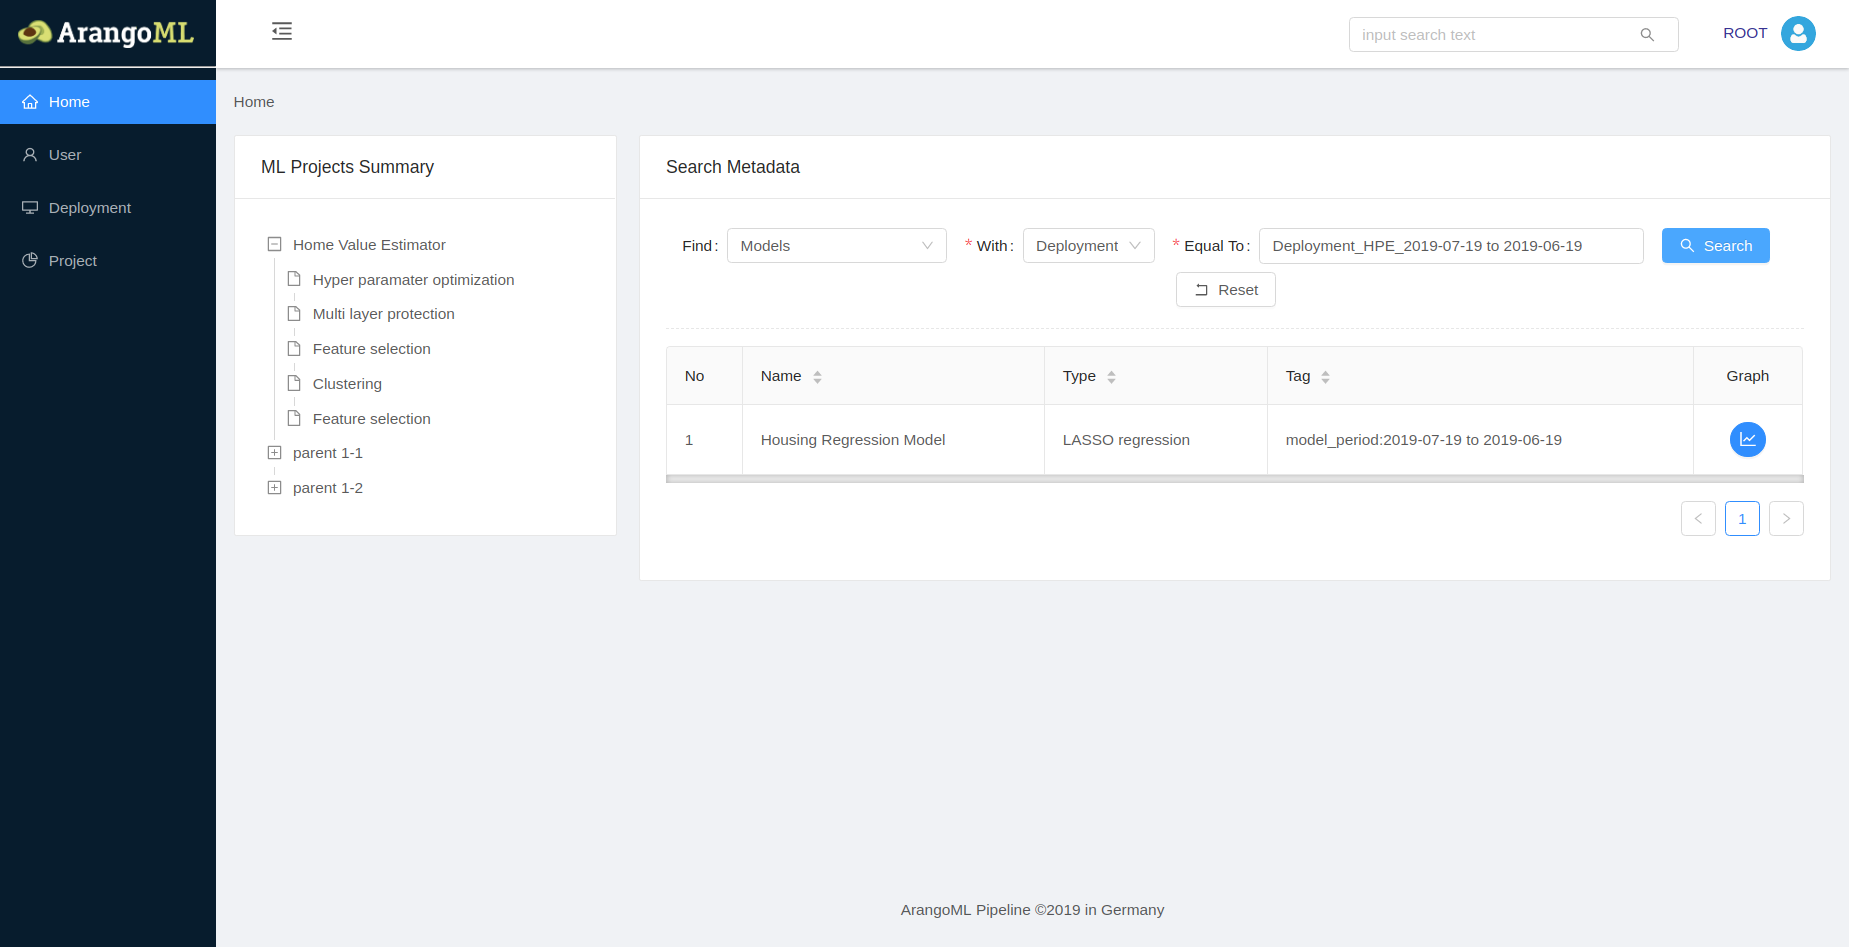
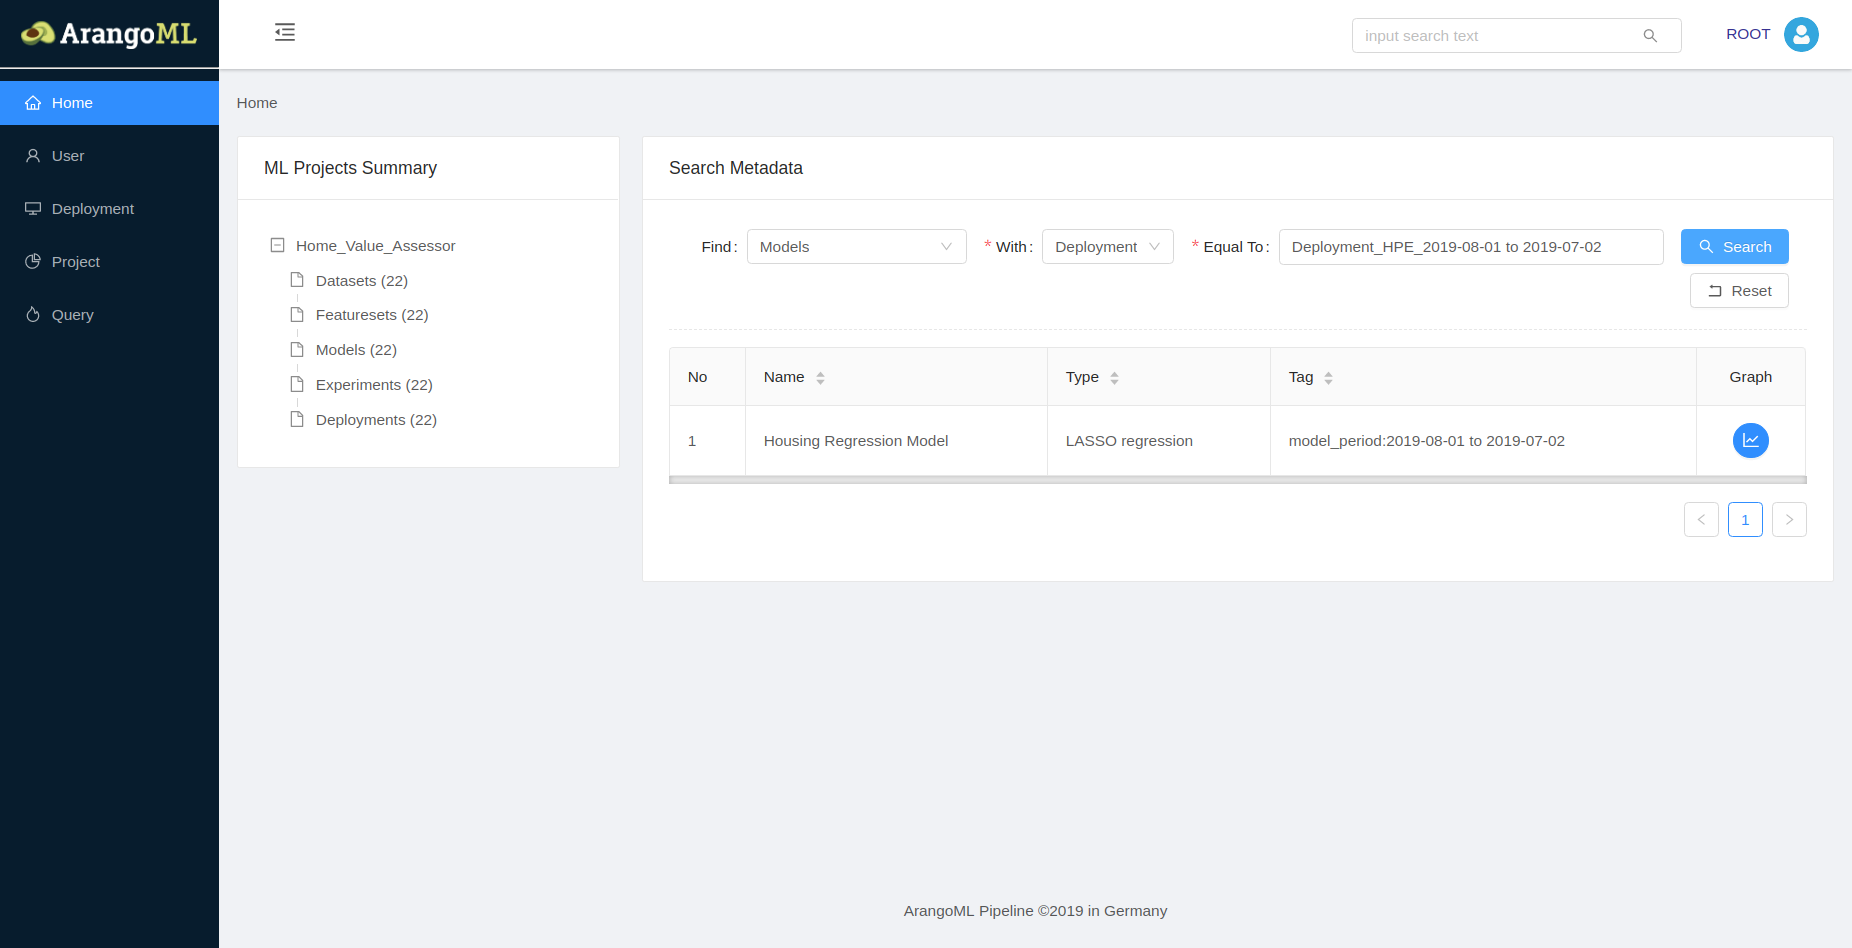
Updates for 0.2 Release

diff --git a/arangopipe/arangopipe_frontend/app/src/containers/Query/Query.jsx b/arangopipe/arangopipe_frontend/app/src/containers/Query/Query.jsx
@@ -234,6 +234,14 @@ class Query extends React.Component {
           </div>
         </Menu.Item>)
 
+    const NewAlert = () => <Alert
+          description={this.props.error}
+          type="error"
+          showIcon
+          closable
+          style={{marginTop: 20}}
+        />
+
     return(
       <div>
           <Card title="Running Query" bordered={true}>
@@ -295,13 +303,7 @@ class Query extends React.Component {
               <Button icon="play-circle" type="primary" onClick={this.executeQuery}>Execute</Button> 
             </div>   
           </Card>
-        {this.props.error && <Alert
-          description={this.props.error}
-          type="error"
-          showIcon
-          closable
-          style={{marginTop: 20}}
-        />}
+        {this.props.error && <NewAlert/>}
         {this.props.explain && <Card title={
             <div>
               <Tag color='geekblue'>Query Explain</Tag>

diff --git a/arangopipe/arangopipe_frontend/app/src/actions/query/index.js b/arangopipe/arangopipe_frontend/app/src/actions/query/index.js
@@ -67,7 +67,7 @@ export const executeQuery = (query) => {
           return dispatch({ type: QUERY.QUERY_RESULT, payload: res.data })
         }
       }).catch(err => {
-        if(err.data.error)
+        if(err)
           return dispatch({ type: QUERY.ERROR, payload: err.data.errorMessage })
       })
   }
@@ -90,7 +90,8 @@ export const explainQuery = (query) => {
           return dispatch({ type: QUERY.QUERY_EXPLAIN, payload: res.data.msg })
         }
       }).catch(err => {
-        return dispatch({ type: QUERY.ERROR, payload: err.data.errorMessage })
+        if(err)
+          return dispatch({ type: QUERY.ERROR, payload: err.data.errorMessage })
       })
   }
 }

diff --git a/arangopipe/arangopipe_frontend/app/src/components/Sidebar.jsx b/arangopipe/arangopipe_frontend/app/src/components/Sidebar.jsx
@@ -17,7 +17,7 @@ class Sidebar extends React.Component{
     return (
         <Sider collapsed={this.props.collapsed}>
             <div className='logo' style={{height: 55}}>
-              <Link to="/" style={{color: 'white'}}>
+              <Link to="" style={{color: 'white'}} onClick={() => {window.location = '/'}}>
                 <img alt="logo" 
                   src={this.props.collapsed?smallLogoPath:logoPath} 
                   style={{width: this.props.collapsed?40:160}}/>

diff --git a/arangopipe/arangopipe_frontend/app/src/actions/AUTHAPI.js b/arangopipe/arangopipe_frontend/app/src/actions/AUTHAPI.js
@@ -29,10 +29,10 @@ AUTHAPI.interceptors.response.use(
     else Promise.reject(response)
   },
   error => {
-    // if(error.response === undefined || error.response.statusText === 'Unauthorized'){
-    //   window.location = '/login'
-    //   return false
-    // }
+    if(error.response === undefined || error.response.statusText === 'Unauthorized'){
+      window.location = '/login'
+      return false
+    }
 
     return Promise.reject(error.response)
   },

diff --git a/arangopipe/arangopipe_frontend/app/src/components/Modal/TreeGraph.jsx b/arangopipe/arangopipe_frontend/app/src/components/Modal/TreeGraph.jsx
@@ -18,6 +18,8 @@ class TreeGraphForm extends React.Component {
     visible: 'hidden'
   }
 
+
+  //Drawing Graph
   drawGraph(engine, format, graph) {
     window.URL = window.URL || window.webkitURL;
 

diff --git a/arangopipe/tests/mlflow/example_secenario_1.py b/arangopipe/tests/mlflow/example_secenario_1.py
@@ -34,8 +34,7 @@ if __name__ == "__main__":
 
     proj_info = {"name": "Wine-Quality-Regression-Modelling"}
     conn_config = ArangoPipeConfig()
-    conn_config.set_dbconnection(hostname = "localhost", port = 8529,\
-                                root_user = "root", root_user_password = "open sesame")
+    conn_config.set_dbconnection(hostname = "http://localhost:8529", root_user = "root", root_user_password = "open sesame")
     admin = ArangoPipeAdmin(config = conn_config)
     proj_reg = admin.register_project(proj_info)
 

diff --git a/arangopipe/tests/mlflow/example_scenario_2.py b/arangopipe/tests/mlflow/example_scenario_2.py
@@ -32,7 +32,7 @@ if __name__ == "__main__":
     warnings.filterwarnings("ignore")
     np.random.seed(40)
     conn_config = ArangoPipeConfig()
-    conn_config.set_dbconnection(hostname = "localhost", port = 8529,\
+    conn_config.set_dbconnection(hostname = "http://localhost:8529",\
                                 root_user = "root", root_user_password = "open sesame")
     ap = ArangoPipe(config = conn_config)
     # Read the wine-quality csv file (make sure you're running this from the root of MLflow!)

diff --git a/arangopipe/tests/mlflow/example_scenario_3.py b/arangopipe/tests/mlflow/example_scenario_3.py
@@ -31,7 +31,7 @@ if __name__ == "__main__":
     warnings.filterwarnings("ignore")
     np.random.seed(40)
     conn_config = ArangoPipeConfig()
-    conn_config.set_dbconnection(hostname = "localhost", port = 8529,\
+    conn_config.set_dbconnection(hostname = "http://localhost:8529",\
                                 root_user = "root", root_user_password = "open sesame")
     ap = ArangoPipe(config = conn_config)
     # Read the wine-quality csv file (make sure you're running this from the root of MLflow!)

diff --git a/arangopipe/tests/pytorch/ch_torch_linear_regression_driver.py b/arangopipe/tests/pytorch/ch_torch_linear_regression_driver.py
@@ -95,7 +95,7 @@ def run_driver():
     
     # Store experiment results in Arangopipe
     conn_config = ArangoPipeConfig()
-    conn_config.set_dbconnection(hostname = "localhost", port = 8529,\
+    conn_config.set_dbconnection(hostname = "http://localhost:8529",\
                                 root_user = "root", root_user_password = "open sesame")
     proj_info = {"name": "Housing_Price_Estimation_Project"}
     admin = ArangoPipeAdmin(config = conn_config)

diff --git a/README.md b/README.md
@@ -12,7 +12,7 @@ the capture (and access to) of metadata across the pipeline is a vital. Typicall
 
 Instead of each component storing its own metadata, a common Metadata Layer allows for queries across the entire pipeline and more efficient management.
 [**ArangoDB**](https://www.arangodb.com) being a multi model database supporting both efficient document and graph data models within a single database engine is a great fit for such kind of common metadata layer for the following reasons:
-* The metadata produced by each component is typically unstructured (e.g., TensorFlow's training metadata is different from PyTorch's metadata) and hence a great fit for a document databases
+* The metadata produced by each component is typically unstructured (e.g., TensorFlow's training metadata is different from PyTorch's metadata) and hence a great fit for document databases
 * The relationship between the different entities (i.e., metadata) can be neatly expressed as graphs (e.g., this model has been trained by *run_34* on *dataset_y*)
 * Querying the metadata can be easily expressed as a graph traversal (e.g., all models which have been derived from *dataset_y*)
 
@@ -34,10 +34,10 @@ Arangopipe is a ArangoDB API component for tracing meta-data about machine learn
 4.  Did adding a particular attribute to a dataset result in consistent performance gains?
 5.  How many datasets have been used for a particular modeling task last year?
 
-Machine learning tools and libraries focus of solving machine learning problems and are not explicitly concerned with tracking information to answer questions such as the above. This is the need  **Arangopipe**  fulfills.  **Arangopipe**  tracks the following data from machine learning experiments:
+Machine learning tools and libraries focus on solving machine learning problems and are not explicitly concerned with tracking information to answer questions such as the above. This is the need  **Arangopipe**  fulfills.  **Arangopipe**  tracks the following data from machine learning experiments:
 
 1.  Data for Model Building: Data that goes into the model building activity is tracked. This includes meta-data about the model, the hyper-parameters associated with the model, the featureset used for model building and the dataset used to generate the featureset.
-2.  Data from Model Building: Data from model building activity is tracked. This includes data about the model parameters (post optimization) and optimization parameters (learning rates, batch-sizes, optimization technique etc.)
+2.  Data from Model Building: Data from the model building activity is tracked. This includes data about the model parameters (post optimization) and optimization parameters (learning rates, batch-sizes, optimization technique etc.)
 3.  Data from Model Performance: Data about the model performance is tracked. This includes performance observed in development and deployed model performance.
 
 ##  Usage
@@ -50,33 +50,67 @@ When data scientists have refined their models to a point where they are ready t
 
 ## Getting Started
 
-To get started with **Arangoipe** using a [Jupyter Notebook](https://jupyter.org/), do the following:
+To facilitate an easy start, docker containers for *torch* and *tensorflow* are provided. These containers have all components of the **ArangoML Pipeline** (Arangopipe, ArangoDB and the Arangopipe user interface). To get started:
 
-1. Install [_docker_](https://docs.docker.com/install/)
+### Prerequisites
+* Install [_docker_](https://docs.docker.com/install/)
 
-2. Docker images for *tensorflow* and *torch* are available in *dockerhub*. Pull the arangopipe docker image of your choice by running:
 
-    `docker pull arangopipe/ap_tensor_flow`  (for _tensorflow_)
+## Start the container of your choice:
+ 
+ - [Torch](#torch)
+ - [Tensorflow](#tensorflow)
 
-    or
 
-    `docker pull arangopipe/ap_torch`   (for _torch_)
+### Torch
 
-3. Start **Arangopipe** together with [Jupyter](https://jupyter.org/) by running:
+1. Start the container:
+  ` docker run -p 6529:8529 -p 8888:8888 -p 3000:3000 -it arangopipe/ap_torch`
 
-    ` docker run -p 6529:8529 -p 8888:8888 -p 3000:3000 -it arangopipe/ap_tensor_flow`  (_tensorflow_)
+2. Running an example in the *torch* container: Run the *torch* docker container. You will have to use the `docker ps` command and get to the shell in the container using the `docker exec` command. Change directory to the `examples/pytorch` directory. The *torch* container provides an example of a linear regression model that uses **Arangopipe** to log experiment metadata. The experiment meta data includes information about the dataset, featureset and optimization settings used to run the *pytorch* model. Once you are in the shell of the *torch* container, run the driver program that develops the torch model and logs the experiment meta-data to *arangopipe*. To run the driver program, launch an `ipython` shell. In the shell, execute the following:
+    1. `from ch_torch_linear_regression_driver import run_driver`
+    2. `run_driver()`
+
+    The details are shown in the figure below.
+
+ 
+    <img src="run_torch_driver.png" height="400">
+
+3. Execute this step after the model development step above has completed. Point your browser http:localhost:3000. Login to the Arangopipe user interface with username  root and password  `open sesame`. Select `Models` in the `Search Metadata` content pane. You should see the model you developed in the previous step. The details are shown in the figure below.
+
+    <img src="pytorch_model_FE.png" height="400">
     
-    or, for _torch_,
+4. [Explore Arangopipe](explore-arangopipe)
+ 
+ ### Tensorflow
+
+1. Start the container:
+  ` docker run -p 6529:8529 -p 8888:8888 -p 3000:3000 -it arangopipe/ap_tensor_flow`  (_tensorflow_)
+
+2. Running an example in the *tensorflow* container: Run the tensorflow container. Point your browser to http://localhost:8888. You will be prompted for a password. Use `root` for the password. In the file browser that is presented in the Jupyter notebook, open the `examples` directory and then open the  `TFX` directory. Open the notebook `tfx_metadata_integration.ipynb`. Read the description of the notebook. This notebook provides an example of how **Arangopipe** can be used with *tensorflow*. The utility of the multi-model feature of **ArangoDB** is leveraged in this example. [Tensorflow Data Validation](https://www.tensorflow.org/tfx/data_validation/get_started) is used to generate the summary statistics for a dataset. This *tensorflow* artifact can be stored in **Arangopipe** and reused as needed. This capability is illustrated in this notebook.
+
+3.  Execute this step after you have executed all the cells in the notebook discussed in the previous step. Point your browser to http://localhost:3000. Login to the Arangopipe user interface with username  root and password  `open sesame`. Select `Featursets` in the `Search Metadata` content pane. You should see the featureset logged with **Arangopipe** resulting from executing the notebook discussed in the previous step.
+
+    <img src="tensorflow_example.png" height="400">
     
-    ` docker run -p 6529:8529 -p 8888:8888 -p 3000:3000 -it arangopipe/ap_torch`
+4. [Explore Arangopipe](explore-arangopipe)
 
-    
+ 
+ ## Explore Arangopipe
+ 
+1. You can generate test data to explore the **Arangopipe** user interface. 
+ * Execute a `docker ps` command to get the *CONTAINER ID* of the running container. 
+ * You can then get to a shell in the container using the command: `docker exec`*CONTAINER ID*. 
+ * Once you are in the container shell, you can generate test data to try **Arangopipe** using the `test_data_generator` utility provided with **Arangopipe**. Simply follow the steps below.
+   - `cd examples/test_data_generator/`
+   - `ipython`
+   - `from generate_model_data import generate_runs`
+   - `generate_runs()`
+   - `exit`
+   
+    Read the section, "Arangopipe User Interface Application", for details about the features of the **Arangopipe** user interface.
 
-4. Point your browser to:  `http://localhost:8888` to get to a **Jupyter** notebook. The default notebook password is _root_
-
-5. Point your browser to: `http://localhost:6529` to get to the **ArangoDB** web user interface.
-
-6. Browse the documentation and examples provided using the file browser available from the **Jupyter** notebook.
+2. The *tensorflow* and *torch* containers contain examples of using **Arangopipe** with common tools in a machine learning stack. Examples that show **Arangopipe** can be used with *hyperopt*, *sklearn* and *mlfow* are provided. To get the details of where these examples are located in the container, use the links below. These links provide a brief description of each example.
 
     Tensorflow:
 
@@ -85,6 +119,11 @@ To get started with **Arangoipe** using a [Jupyter Notebook](https://jupyter.org
     Torch:
 
     [![Binder](https://mybinder.org/badge_logo.svg)](https://mybinder.org/v2/gh/arangoml/arangopipe/0.1?filepath=arangopipe%2Farangopipe_examples_torch.ipynb)
+ 
+
+3. To access the notebook examples provided with the docker container, point your browser to:  `http://localhost:8888` to get to a **Jupyter** notebook. The default notebook password is _root_
+
+4. Point your browser to: `http://localhost:6529` to get to the **ArangoDB** web user interface. The `root` password is `open sesame`.
 
 
 
@@ -118,38 +157,18 @@ Arangopipe represents metadata as a graph. The nodes of the graph above are the 
 
 The data associated with the nodes and edges of the graph are stored as documents. The documents do not have a fixed structure and represent data using key-value pairs. This offers flexibility and permits users to decide the metadata elements that they would like to store. This also permits users to store metadata from any machine learning tech stack in Arangopipe.
 
-## Installing Arangopipe
-**Arangopipe** is available as a docker image. Docker containers for both _tensorflow_ and _torch_ are available. To run Arangopipe:
+## Installing Arangopipe API
+If you would like to use **Arangopipe** with your pipelines, you would need to do the following:
 
-1. Pull the container of your choice from _dockerhub_, for example, _tensorflow_:
+1. `pip install sklearn`
 
-    `docker pull arangopipe/ap_tensor_flow` 
+2. `pip install python-arango`
 
-    If you want the _torch  container, use:
-    
-    `docker pull arangopipe/ap_torch` 
-
-2. Run the container of you pulled. For _tensorflow_:
-
-    `docker run -it -p 6529:8529 -p 8888:8888 ap_tensor_flow:0.1`
-
-    for _torch_:
-    
-    `docker run -it -p 6529:8529 -p 8888:8888 ap_torch:0.1`
-
-3. Execute a `docker ps` command to get the ID of the running container. You can then get to a shell in the container using the `docker exec` command. Once you are in the container shell, you can generate test data to try **Arangopipe** using the `test_data_generator` utility provided with **Arangopipe**. The details are shown in the figure below.
-
-    <!--- ![Test Data Generation](test_data_generation.png) --->
-    <img src="test_data_generation.png" height="400">
-
-    You can then point your browser to `http://localhost:8888`. When prompted for a password, enter     `root` You will then see an examples notebook that explains how the examples are laid out in the directory. The examples illustrate how arangopipe can work with various tools in a machine learning stack. Examples of integration with _hyperopt_, _scikitlearn_, _tensorflow_, _torch_ and _mlflow_ are provided. 
-
-4. To use the **Arangopipe** user interface, point your browser to `http://localhost:3000`. To sign into the user interface, use a username of `root` and `open sesame` as password (note, there is a space between open and sesame). You neeed to complete the steps above to use the user interface. The features of the user interface are provided in the next section.
-
+3. `pip install arangopipe`
 
 
 ## Arangopipe User Interface Application
-Machine learning pipelines can use the **Arangopipe** API to update the **Arangopipe** database as they progress through their execution. Data scientists and ops personel, can use the **Arangopipe** UI to obtain information about deployed pipelines, trace the lineage of a deployment or track the details of a deployed asset (models, featuresets etc.). The **Arangopipe** UI offers a summary view of assets for each project tracked by **Arangopipe**. The summary view (content under "ML Projects Summary") is presented in the left navigation bar of the landing page of the user interface application. This feature is not functional at this time. The administration features (associated with the "User", "Deployment" and "Project" links in the left navigation pane) are not available at this time and will be available shortly. The search feature, which can be used to track assets and view lineage information, is available at this time. The search feature can be accessed from the right hand pane of the landing page. This is shown below.
+Machine learning pipelines can use the **Arangopipe** API to update the **Arangopipe** database as they progress through their execution. Data scientists and ops personel, can use the **Arangopipe** UI to obtain information about deployed pipelines, trace the lineage of a deployment or track the details of a deployed asset (models, featuresets etc.). The **Arangopipe** UI offers a summary view of assets for each project tracked by **Arangopipe**. The summary view (content under "ML Projects Summary") is presented in the left navigation bar of the landing page of the user interface application. The administration features (associated with the "User", "Deployment" and "Project" links in the left navigation pane) are not available at this time and will be available shortly. The search feature, which can be used to track assets and view lineage information, is available at this time. The search feature can be accessed from the right hand pane of the landing page. This is shown below.
 
 <!--- ![Search Deployments](search_deployments_ann.png) -->
 <img src="search_deployments.png" height="600">
@@ -174,3 +193,9 @@ If we are interested in the complete lineage, the graph representation of the li
 <figcaption> Figure 4: Search the model for a deployment</figcaption>
 
 In Figure 4, the dataset, featureset, model, model parameters, model performance in development, and most recent serving performance, is shown for the deployment of interest.
+
+### Adhoc Queries
+To execute adhoc queries against **Arangopipe** use the *Query* feature from the left navigation bar. The details of using the query feature to submit a query to **Arangopipe** is shown in the figure below.
+ <img src="adhoc_query.png" height="600">
+<figcaption> Figure 4: Submit a query to **Arangopipe**</figcaption>
+

diff --git a/Changelog.md b/Changelog.md
@@ -1,0 +1,10 @@
+# CHANGELOG.md
+## 0.1 (Initial Release)
+
+## 0.2
+
+
+* Added Adhoc Query feature to the UI
+* Added Summary View feature to the UI
+* Migrated to the latest python-arango 5.2.0
+* Minor UI tweaks and fixes
